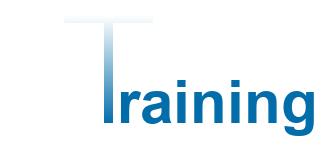
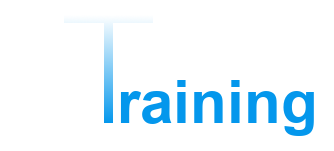
Change Mathraining color in dark theme

Changed region(s): [[0.2994, 0.3709, 0.9581, 0.9007], [0.509, 0.5298, 0.5689, 0.5828], [0.6886, 0.5298, 0.7186, 0.5828]]

diff --git a/app/assets/stylesheets/common/color.scss b/app/assets/stylesheets/common/color.scss
@@ -56,8 +56,15 @@
   }
 }
 
-.text-color-mt-blue {
-  color: rgb(3,109,170);
+[data-bs-theme="light"] {
+  .text-color-mt-blue {
+    color: #036daa
+  }
+}
+[data-bs-theme="dark"] {
+  .text-color-mt-blue {
+    color: #0497ec;
+  }
 }
 
 .text-color-grey {
